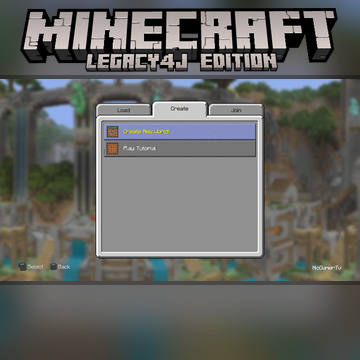
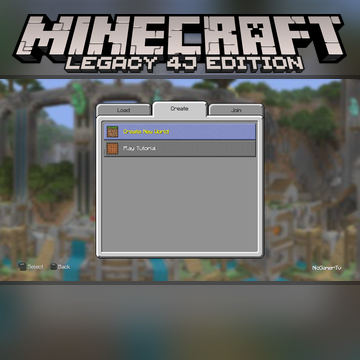
1

Changed region(s): [[0.0306, 0.0, 0.9778, 0.2139]]

diff --git a/scripts/regenerate_generic_header_previews.py b/scripts/regenerate_generic_header_previews.py
@@ -166,6 +166,32 @@ def regenerate_legacy4j_specials(root: Path) -> list[tuple[Path, Path]]:
     return written
 
 
+def regenerate_legacy4j_generic(root: Path, logo: Image.Image) -> list[tuple[Path, Path]]:
+    clean_dir = root / "resources" / "store icons" / "legacy4j_clean"
+    preview_dir = root / "Legacy4J" / "preview_images"
+    items = [
+        ("faithful_legacy_clean.png", "faithful_legacy_preview.png"),
+        ("old_ui_clean.png", "old_ui_preview_image.png"),
+        ("ore4j_clean.png", "ore4j_preview.png"),
+        ("legacy_tutorial_worlds_clean.png", "legacy_tutorial_worlds_preview.png"),
+        ("legacy_panorama_tu5_clean.png", "legacy_panorama_tu5_preview.png"),
+        ("legacy_panorama_tu7_clean.png", "legacy_panorama_tu7_preview.png"),
+        ("legacy_panorama_tu12_clean.png", "legacy_panorama_tu12_preview.png"),
+        ("legacy_panorama_tu20_clean.png", "legacy_panorama_tu20_preview.png"),
+        ("legacy_panorama_tu31_clean.png", "legacy_panorama_tu31_preview.png"),
+        ("legacy_panorama_tu46_clean.png", "legacy_panorama_tu46_preview.png"),
+    ]
+    written: list[tuple[Path, Path]] = []
+    for source_name, output_name in items:
+        source_path = clean_dir / source_name
+        output_path = preview_dir / output_name
+        if not source_path.exists():
+            raise FileNotFoundError(f"Missing clean Legacy4J base: {source_path}")
+        save_preview(source_path, output_path, logo)
+        written.append((source_path, output_path))
+    return written
+
+
 def regenerate_starter_and_hide_seek(root: Path, logo: Image.Image) -> list[tuple[Path, Path]]:
     source_path = Path.home() / "Downloads" / "pack.png"
     if not source_path.exists():
@@ -216,6 +242,7 @@ def main() -> int:
             "doctor-who",
             "from-the-shadows",
             "legacy4j-specials",
+            "legacy4j-generic",
             "starterpacks",
             "bundles",
         ],
@@ -225,7 +252,7 @@ def main() -> int:
 
     root = repo_root()
     logo = Image.open(root / "resources" / "preview logos" / "header.png").convert("RGBA")
-    categories = set(args.category or ["skinpacks", "texture-packs", "doctor-who", "from-the-shadows", "legacy4j-specials", "starterpacks", "bundles"])
+    categories = set(args.category or ["skinpacks", "texture-packs", "doctor-who", "from-the-shadows", "legacy4j-specials", "legacy4j-generic", "starterpacks", "bundles"])
     jobs = []
     if "skinpacks" in categories:
         jobs.extend(regenerate_skinpacks(root, logo))
@@ -237,6 +264,8 @@ def main() -> int:
         jobs.extend(regenerate_from_the_shadows(root))
     if "legacy4j-specials" in categories:
         jobs.extend(regenerate_legacy4j_specials(root))
+    if "legacy4j-generic" in categories:
+        jobs.extend(regenerate_legacy4j_generic(root, logo))
     if "starterpacks" in categories:
         jobs.extend(regenerate_starter_and_hide_seek(root, logo))
     if "bundles" in categories:
